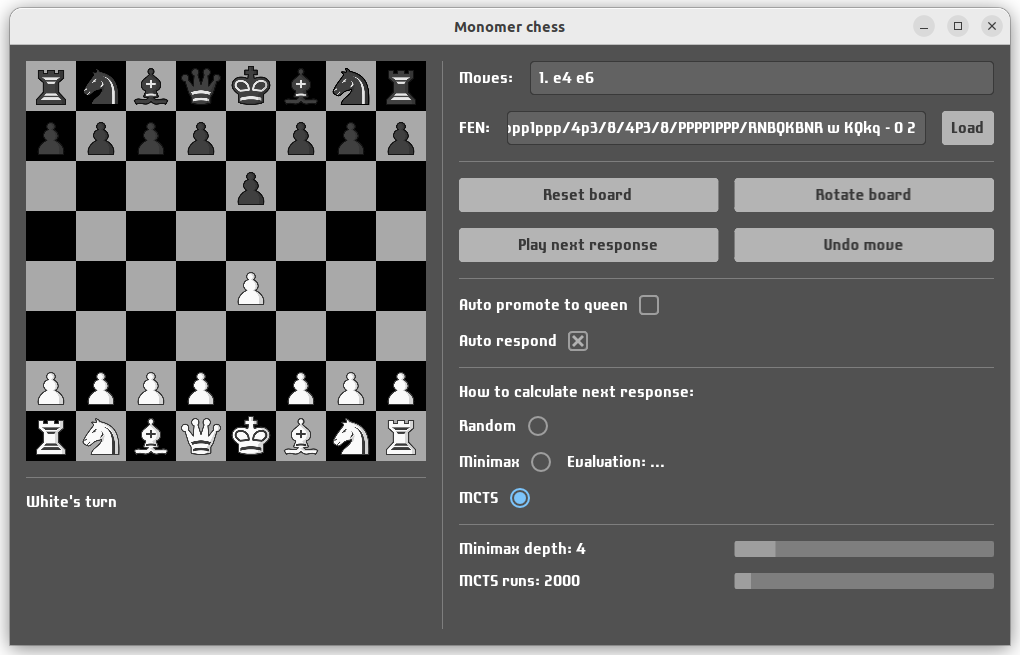
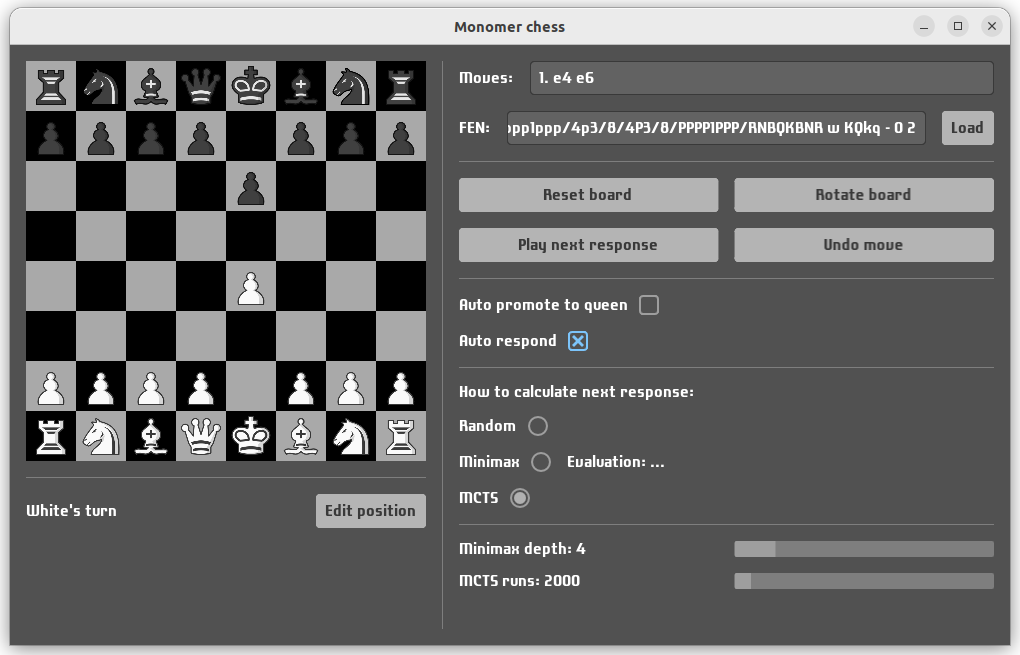
update README

diff --git a/README.md b/README.md
@@ -1,11 +1,8 @@
 # Monomer chess
-
-## Screenshots
 ![Screenshot](readme/screenshot1.png)
-![Screenshot](readme/screenshot2.png)
-![Screenshot](readme/screenshot3.png)
 
 ## Goals
+- To have a chess GUI written in Haskell.
 - To learn [Minimax](https://en.wikipedia.org/wiki/Minimax) (with [alpha-beta pruning](https://en.wikipedia.org/wiki/Alpha%E2%80%93beta_pruning)) and [MCTS](https://en.wikipedia.org/wiki/Monte_Carlo_tree_search) algorithms.
 
 ## Features
@@ -16,8 +13,19 @@
 - It is possible to play against computer and choose how it would
 calculate its response to your move:
     - **Random**: chooses randomly from all possible moves.
-    - **Minimax**: basic implementation with alpha-beta pruning and configurable depth, shows its evaluation (no quiescence search and other stuff implemented so evaluation is not accurate).
+    - **Minimax**: basic implementation with alpha-beta pruning and configurable depth, shows its evaluation (no [quiescence search](https://en.wikipedia.org/wiki/Quiescence_search) and other stuff implemented so evaluation is not accurate).
     - **MCTS**: Monte Carlo tree search with configurable number of runs, rollouts played randomly to the end of the game.
+
+![Screenshot](readme/screenshot2.png)
+
+- It possible to edit current position on the board (including whose turn it is now and castling rights):
+
+![Screenshot](readme/screenshot3.png)
+
+- Nice dialog window when a pawn promotes:
+
+![Screenshot](readme/screenshot4.png)
+
 
 ## License
 - This project is licensed under the [MIT license](LICENSE).
